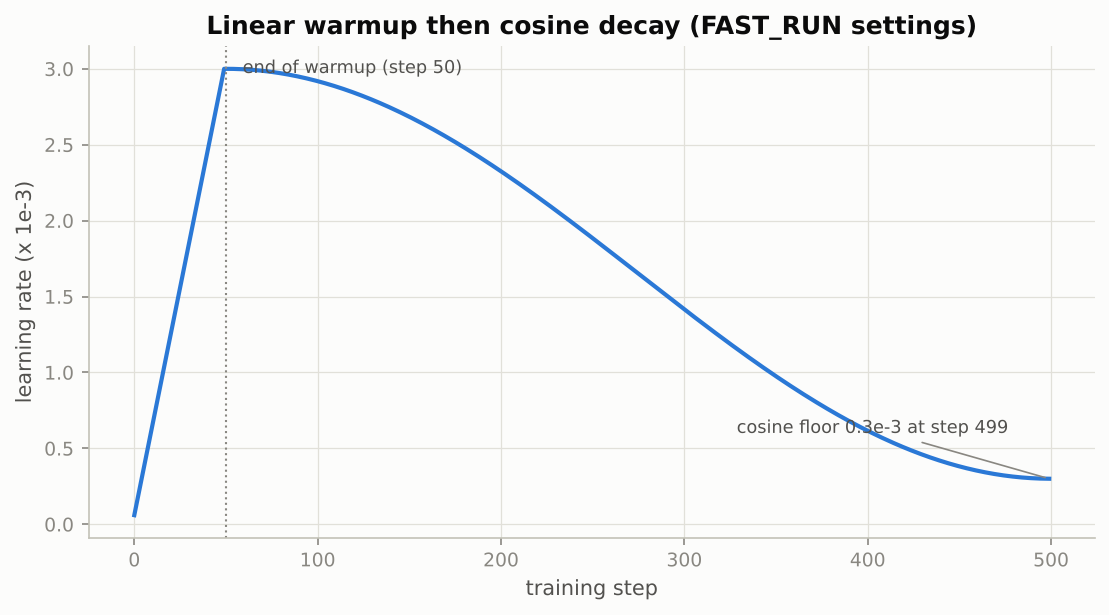
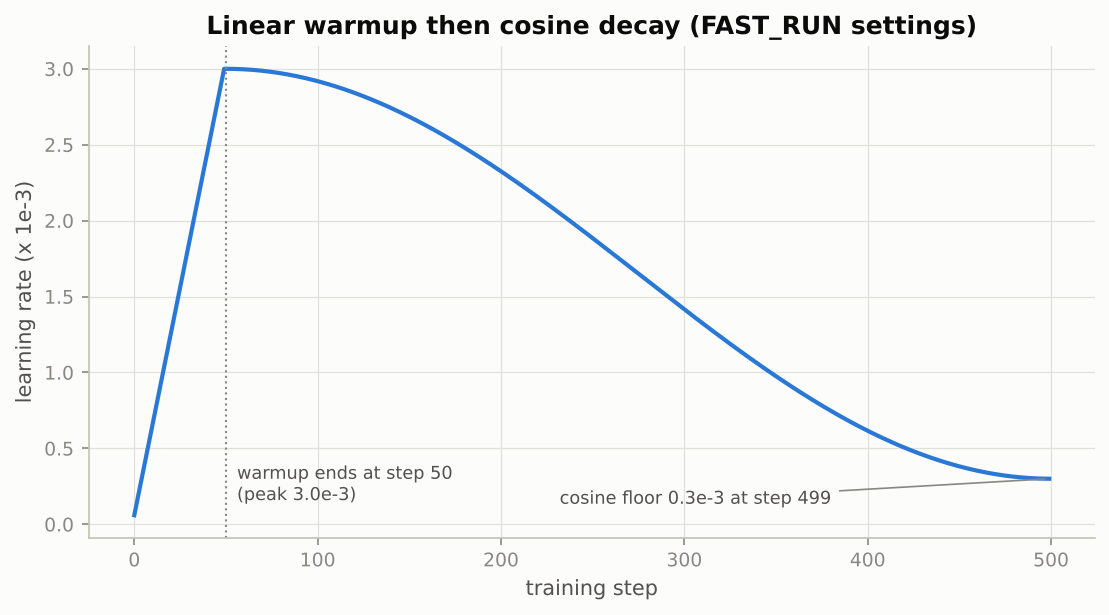
WIP: worker output in progress
Claude-Session: https://claude.ai/code/session_01AyDyWZLS5ijWEeo4Qagpbd

diff --git a/notebooks/04_training_deep_networks.md b/notebooks/04_training_deep_networks.md
@@ -24,13 +24,13 @@
 
 ```mermaid
 flowchart LR
-    S1["1. Mini-batch SGD<br/>noise = lr / batch"] --> S2["2. Optimizers<br/>momentum, adaptive, AdamW"]
-    S2 --> S3["3. LR schedules<br/>range test, warmup, cosine"]
-    S3 --> S4["4. Initialization<br/>variance propagation"]
-    S4 --> S5["5. Normalization<br/>BatchNorm, LayerNorm"]
-    S5 --> S6["6. Regularization<br/>decay, dropout, stopping, aug"]
-    S6 --> S7["7. Diagnosing<br/>loss shapes, dead units, NaN"]
-    S7 --> S8["8. Hyperparameter search<br/>random, log-uniform"]
+    S1["1. Mini-batch SGD, noise = lr / batch"] --> S2["2. Optimizers, momentum, adaptive, AdamW"]
+    S2 --> S3["3. LR schedules, range test, warmup, cosine"]
+    S3 --> S4["4. Initialization, variance propagation"]
+    S4 --> S5["5. Normalization, BatchNorm, LayerNorm"]
+    S5 --> S6["6. Regularization, decay, dropout, stopping, aug"]
+    S6 --> S7["7. Diagnosing, loss shapes, dead units, NaN"]
+    S7 --> S8["8. Hyperparameter search, random, log-uniform"]
     S1 -. "noise ball shrinks with lr" .-> S3
     S4 -. "norm layers replace careful init" .-> S5
     S6 -. "overfitting curve" .-> S7
